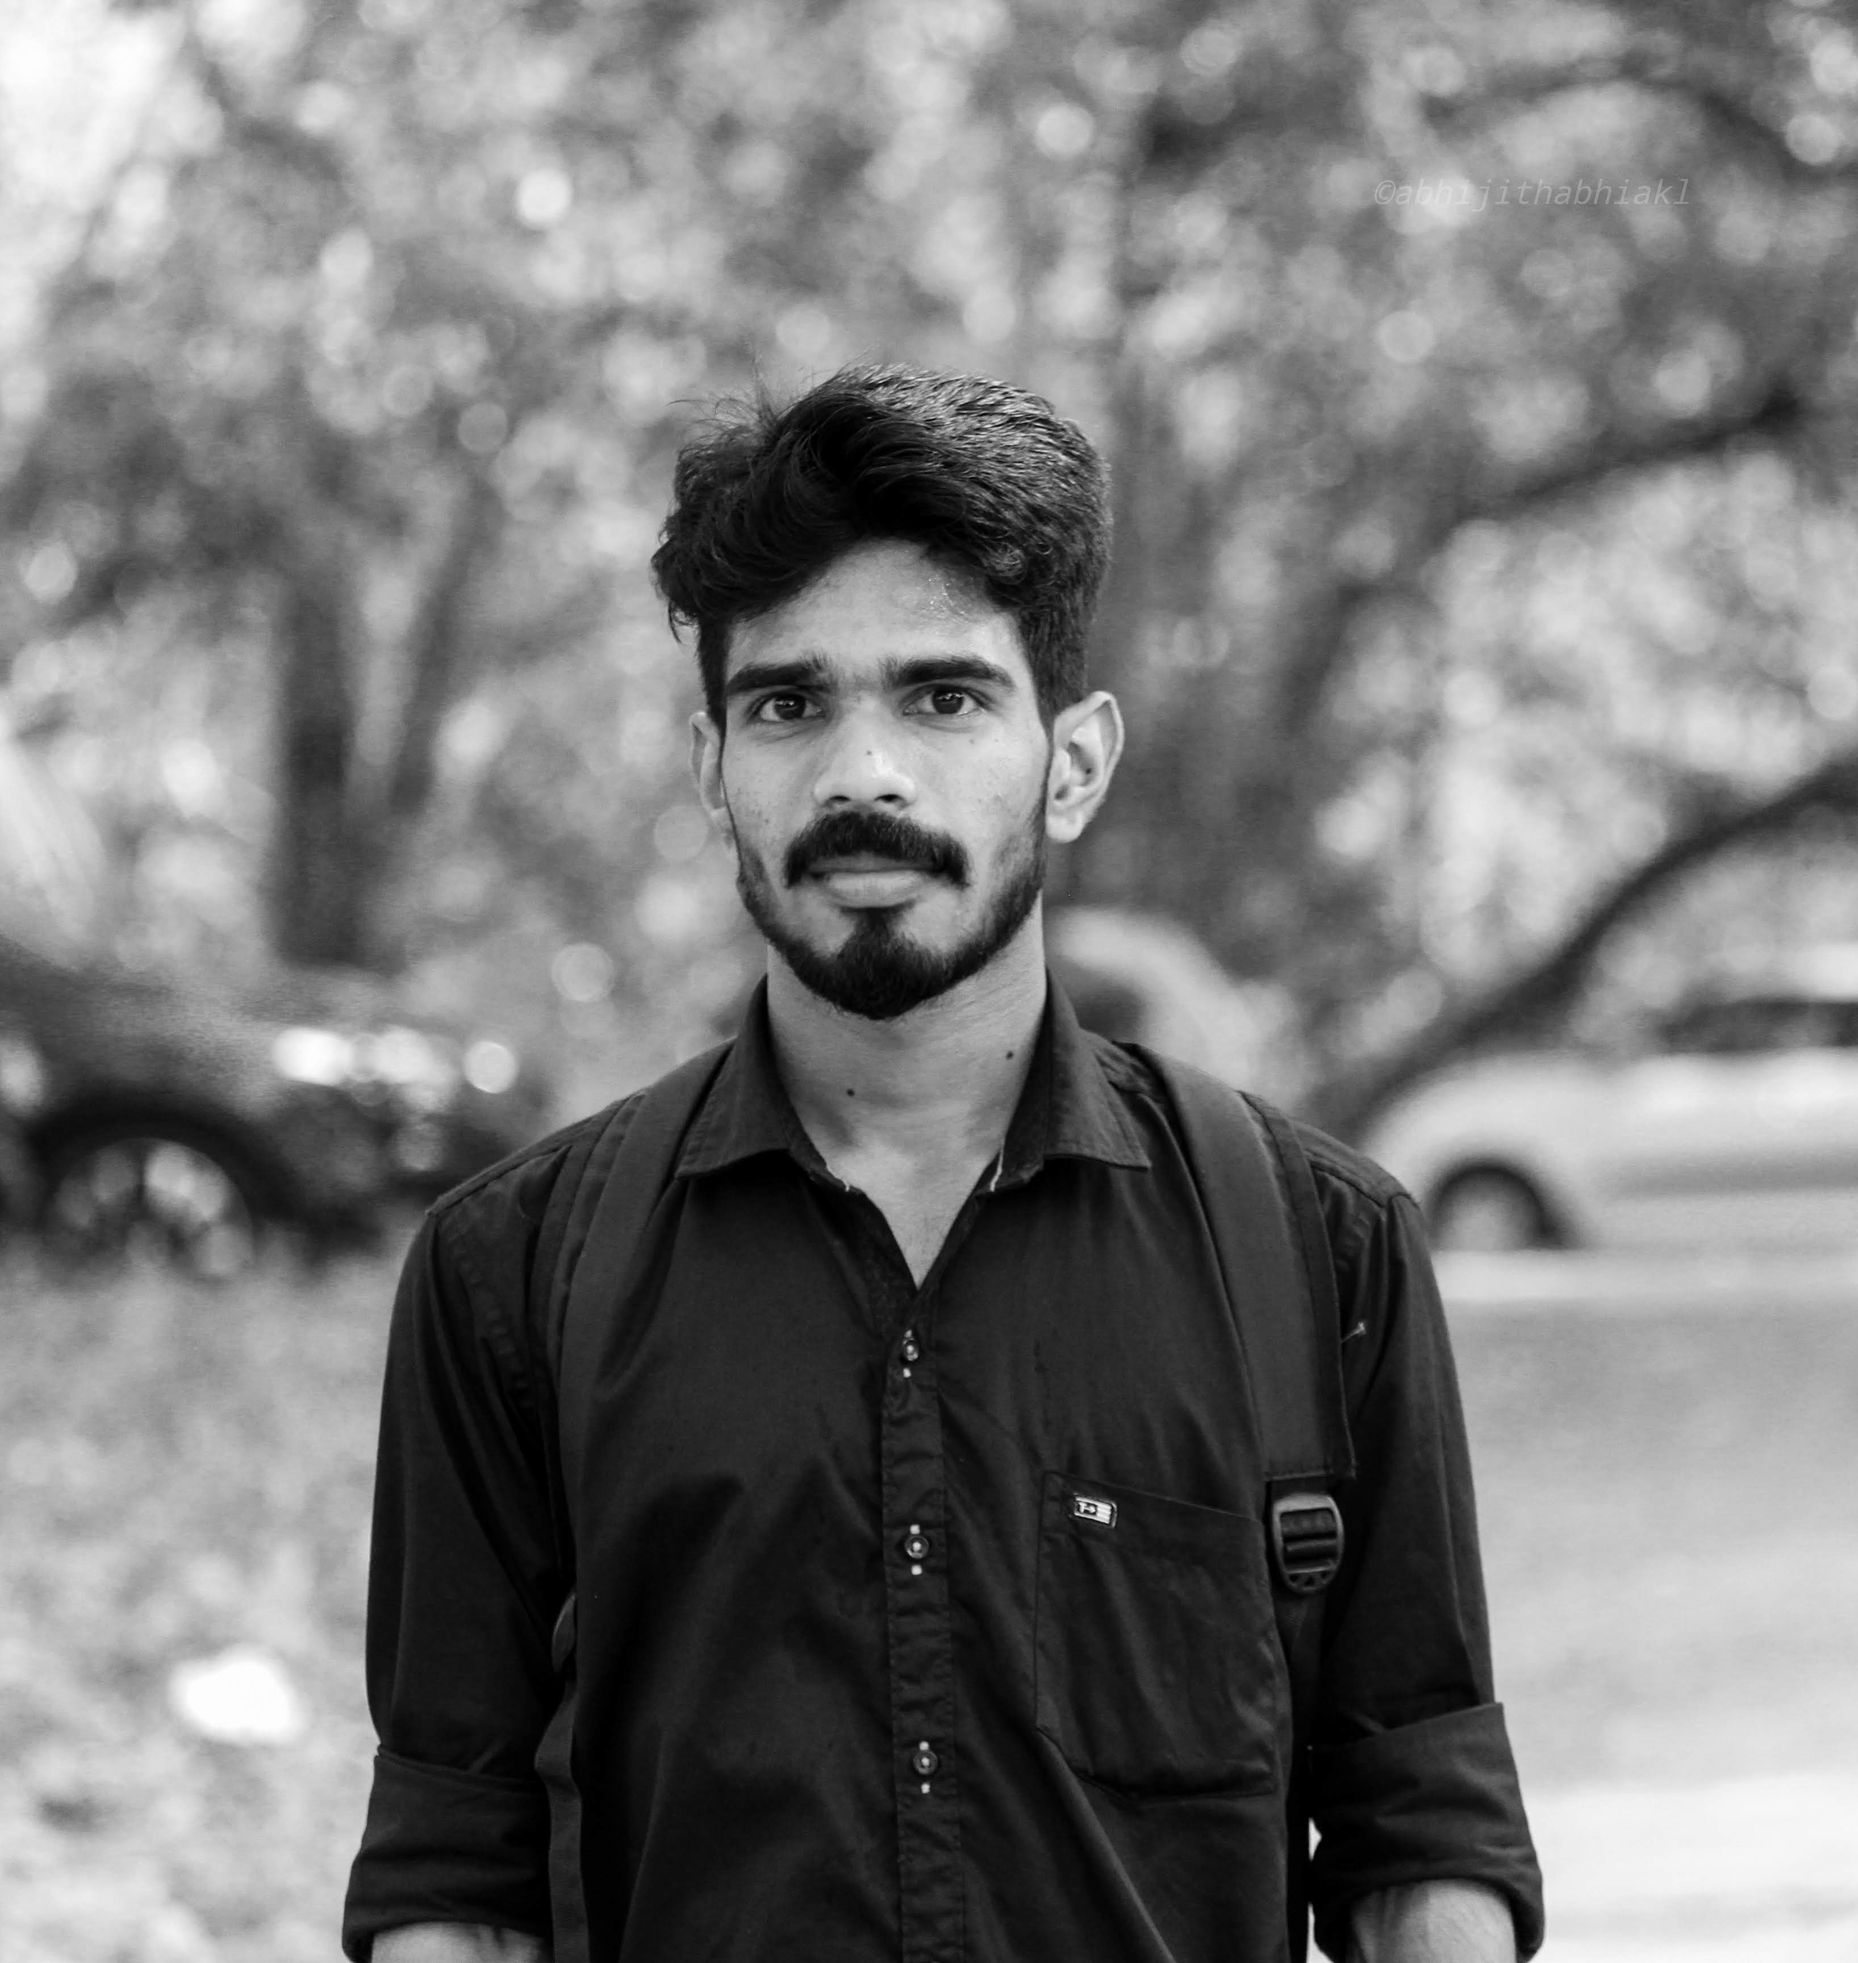
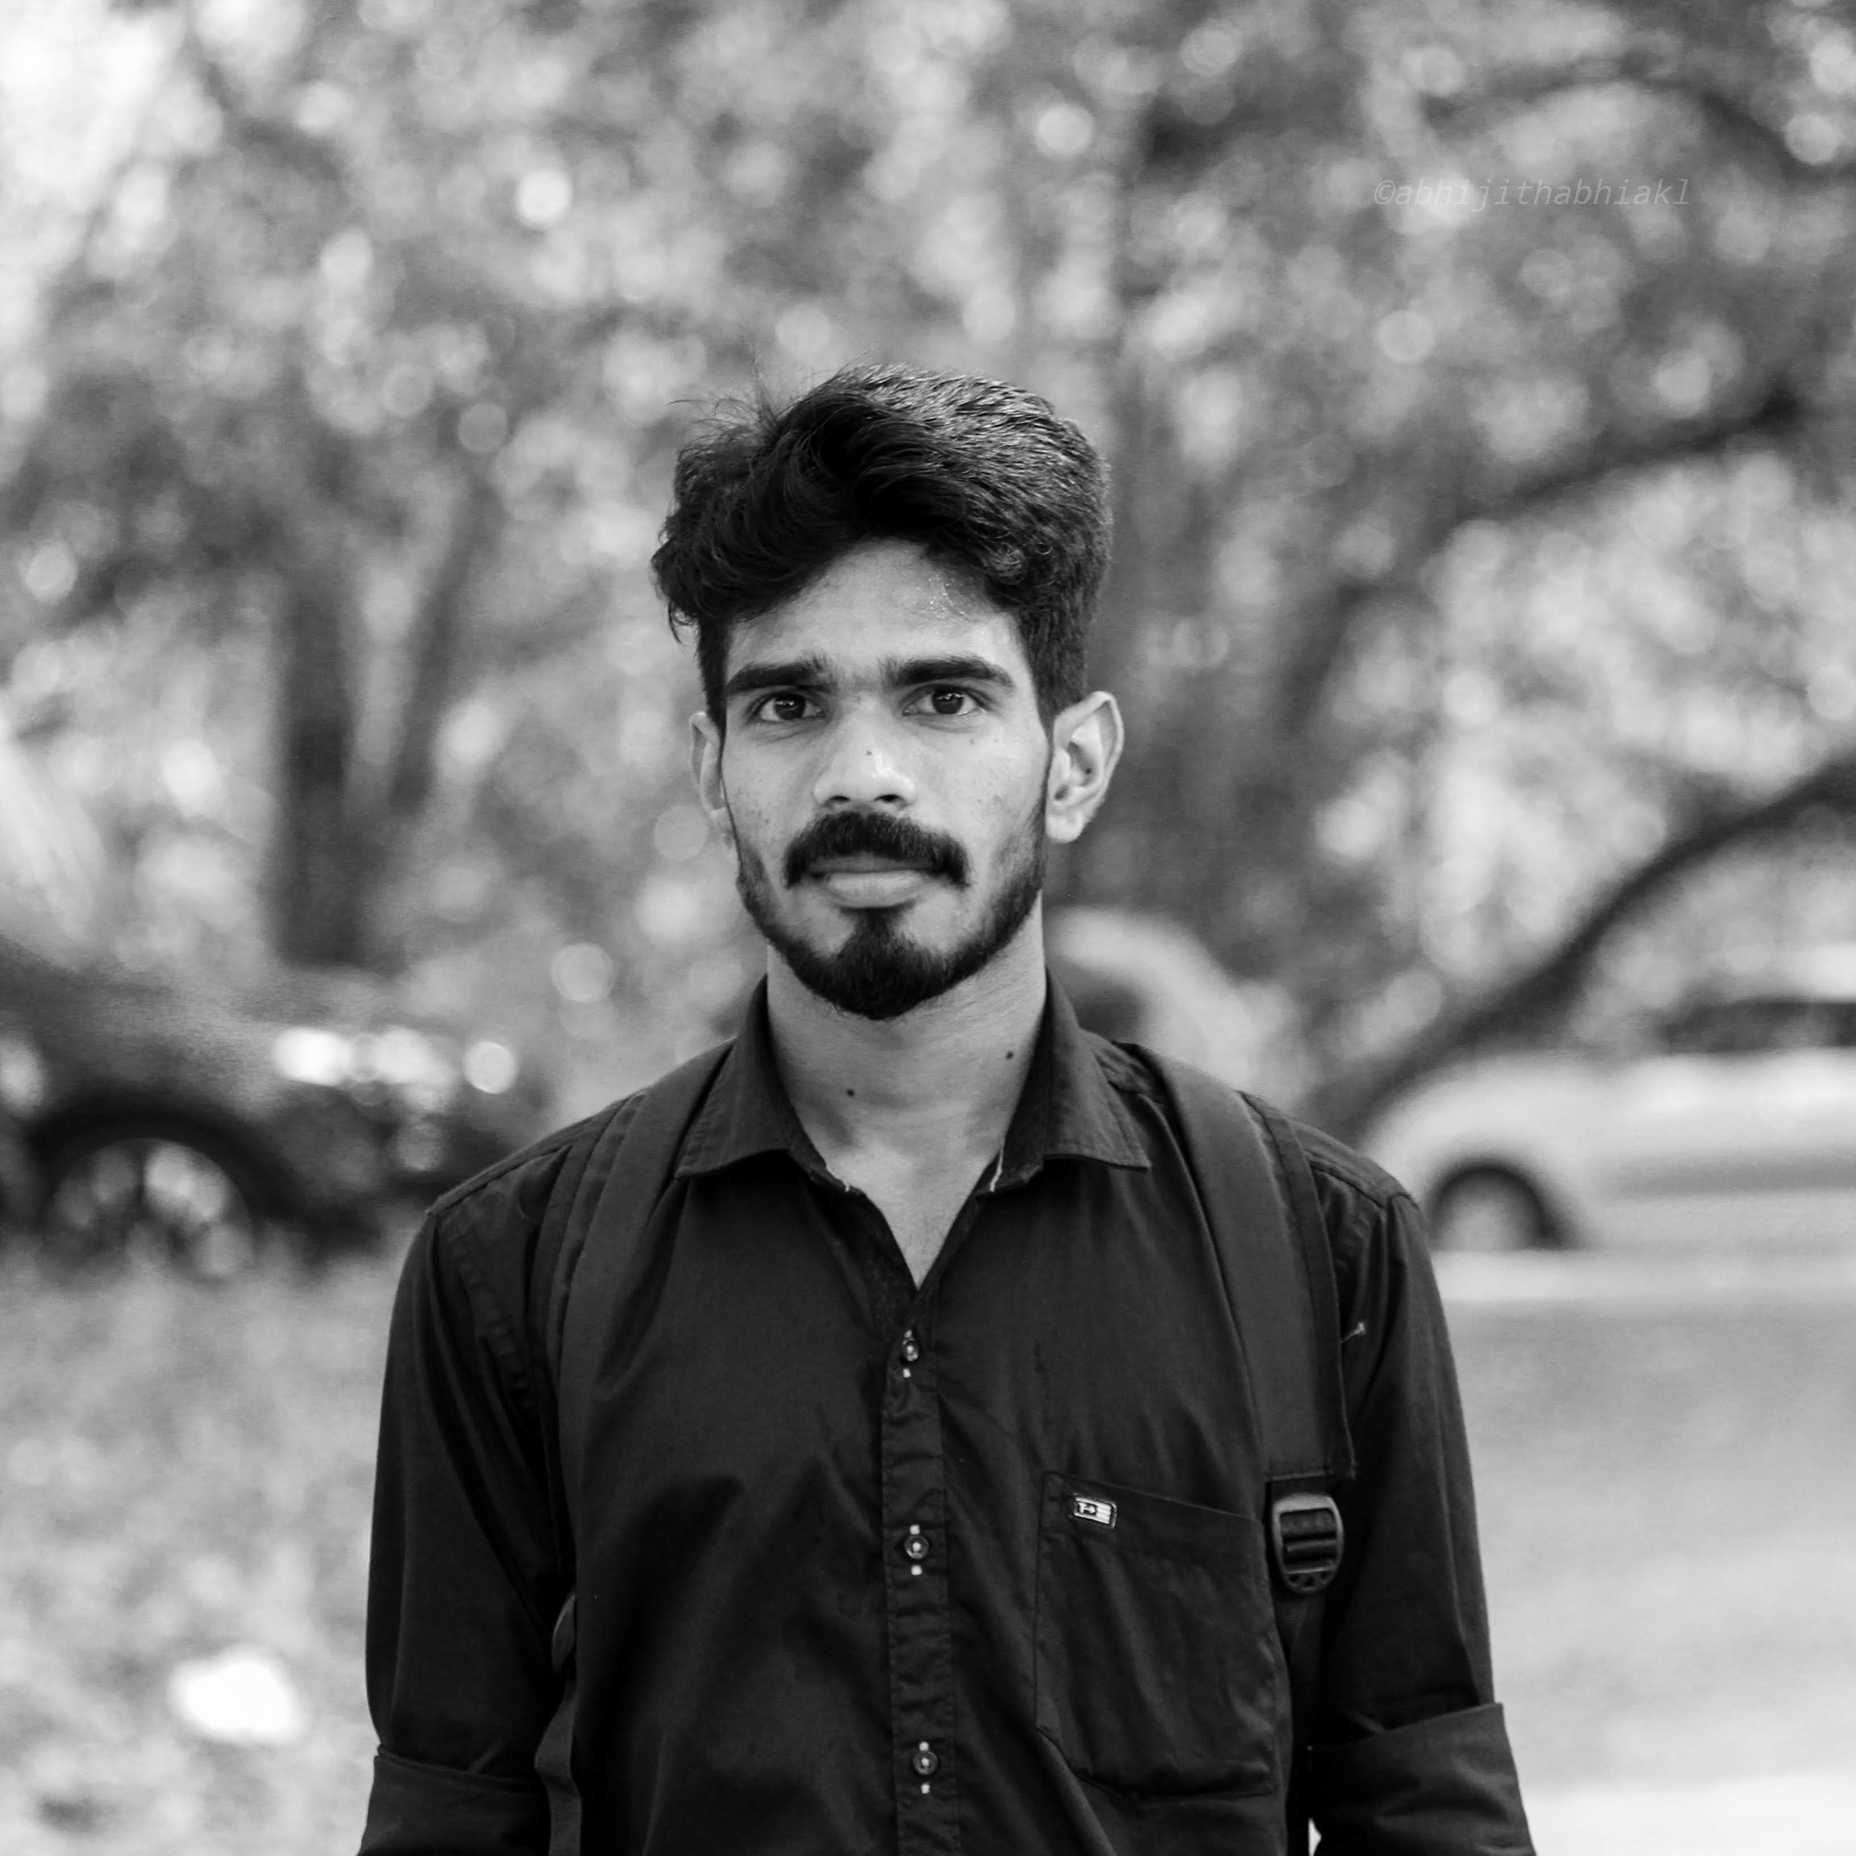
image, oval fix u

diff --git a/index.html b/index.html
@@ -53,9 +53,9 @@
 			href="/img/favicon-16x16.png"
 			sizes="16x16"
 		/>
-		<link rel="manifest" href="/img/manifest.json" />
-		<link rel="mask-icon" href="/img/safari-pinned-tab.svg" color="#24d05a" />
-		<link rel="shortcut icon" href="/img/favicon.ico" />
+		<link rel="manifest" href="./img/manifest.json" />
+		<link rel="mask-icon" href="./img/safari-pinned-tab.svg" color="#24d05a" />
+		<link rel="shortcut icon" href="./img/favicon.ico" />
 		<meta name="msapplication-config" content="/img/browserconfig.xml" />
 		<meta name="theme-color" content="#ffffff" />
 
@@ -75,7 +75,7 @@
 					<h2>Hardware Engineer in Kerala</h2>
 				</div>
 				<div class="img-frame">
-					<img id="propic" src="https://cassidoo.co/img/face1.jpg" alt="" />
+					<img id="propic" src="./img/face10.jpg" alt="" />
 				</div>
 			</div>
 			<div class="links">

diff --git a/style.css b/style.css
@@ -249,10 +249,10 @@ tr td br {
 
 .img-frame {
 	position: relative;
-	width: 300px;
-	height: 300px;
+	width: 260px;
+	height: 260px;
 	margin: 0 0 10px 0;
-	border-radius: 50%;
+	border-radius: 50% ;
 	overflow: hidden;
 }
 .img-frame img {
@@ -261,7 +261,7 @@ tr td br {
 	left: 50%;
 	-webkit-transform: translate(-50%, -50%);
 	transform: translate(-50%, -50%);
-	height: 100%;
+	width: 100%;
 }
 
 .links {
